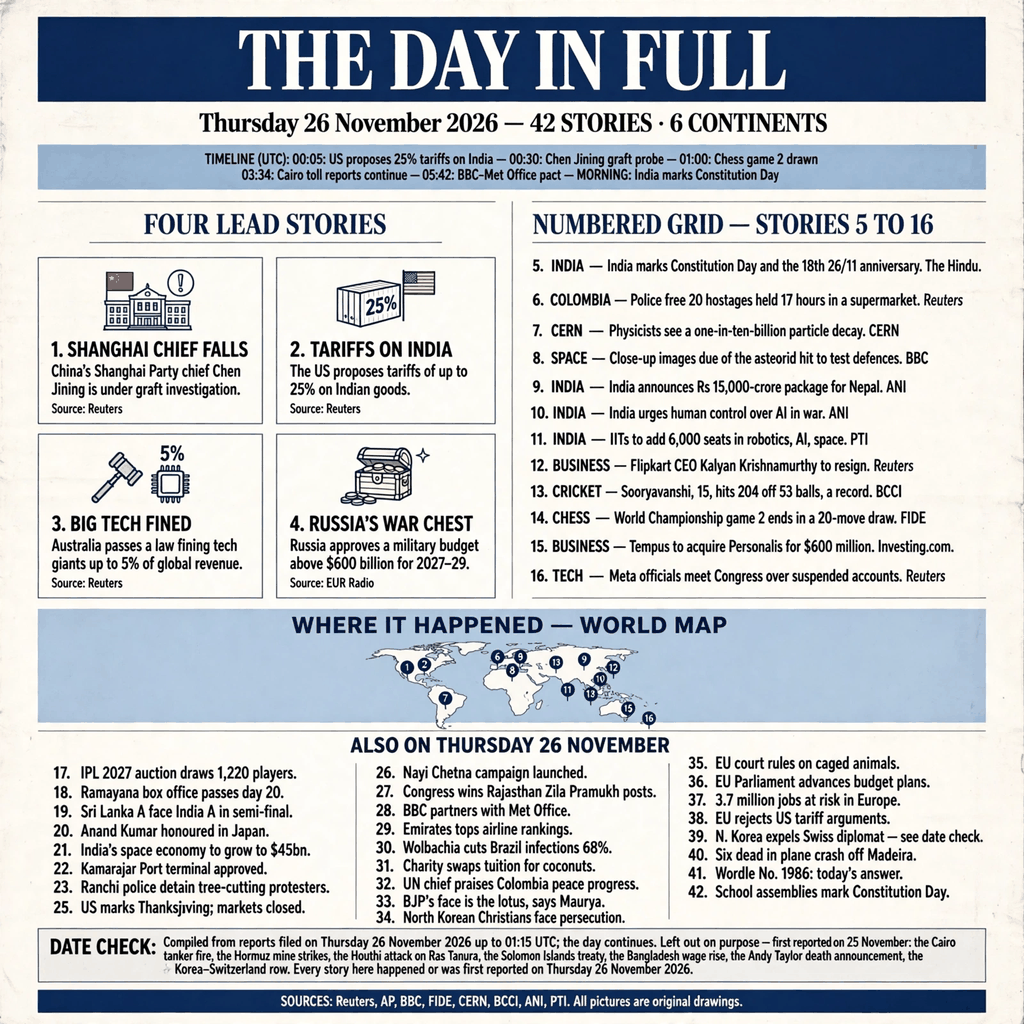
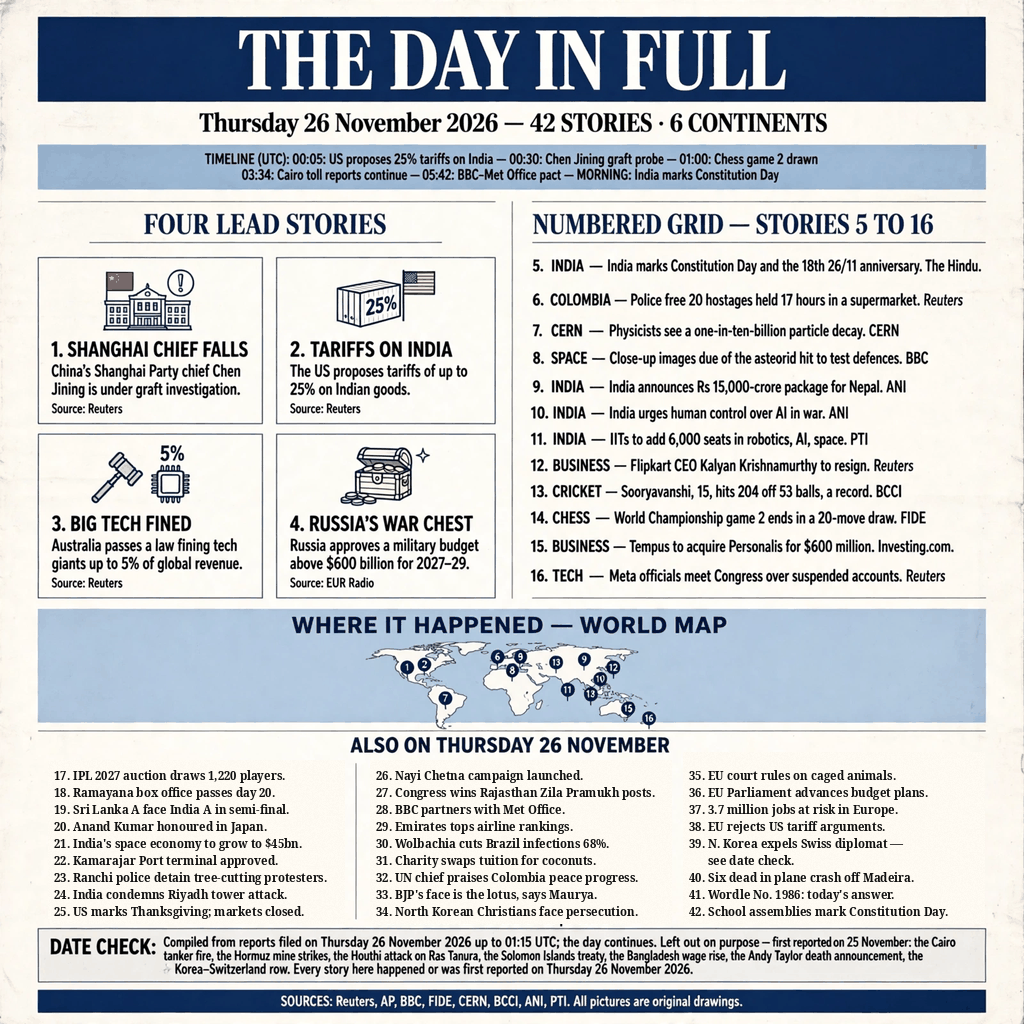
revise: restore missing ALSO list item 24 (India condemns Riyadh tower attack)
- redraw the three ALSO columns uniformly (Noto Serif Condensed
  Bold, 13px/17px) so all 26 items 17-42 fit; item 39 wraps over
  two lines with indented continuation
- add stories.md: full 42-story source list as source of truth
- nothing outside the ALSO columns touched (verified: zero
  changed pixels outside y 755-923)

Changed region(s): [[0.3438, 0.7188, 0.9688, 0.9062], [0.0312, 0.75, 0.3125, 0.9062]]

diff --git a/stories.md b/stories.md
@@ -1,0 +1,116 @@
+# Thursday 26 November 2026 — 42 stories for news-image-20261126
+
+Researched the morning of Thursday 26 November 2026 (WIB, = 01:15 UTC).
+Rule followed: every story happened, or was first reported, on Thursday
+26 November 2026 in some time zone. The day was only ~1 hour old in UTC
+when researched, so the poster states it was compiled from reports filed
+up to 01:15 UTC and the day continues. The DATE CHECK on the poster says
+what was left out and why.
+
+## Lead stories (1–4, with original drawings)
+
+1. **SHANGHAI CHIEF FALLS — Chen Jining under graft investigation.**
+   China's Shanghai Party chief Chen Jining is under investigation for
+   suspected serious violations of discipline and law; once seen as a
+   possible future leader, last public appearance 19 November.
+   Source: Reuters.
+2. **TARIFFS ON INDIA — US proposes tariffs of up to 25% on Indian
+   goods**, falling to 17% if a deal is reached; India would face the
+   second-highest rate after Vietnam. Source: Reuters.
+3. **BIG TECH FINED — Australia passes online-safety fines law.**
+   Parliament passed a law allowing fines of up to 5% of global
+   revenue for tech giants that fail to prevent foreseeable online
+   safety harms. Source: Reuters.
+4. **RUSSIA'S WAR CHEST — Military budget above $600 billion for
+   2027–29 approved.** Source: EUR Radio.
+
+## Numbered grid (5–16)
+
+5. **ASIA · INDIA — Constitution Day and the 18th anniversary of the
+   26/11 Mumbai attacks.** Source: The Hindu.
+6. **AMERICAS · COLOMBIA — Police free 20 hostages held 17 hours in a
+   supermarket.** Source: Reuters.
+7. **SCIENCE · CERN — One-in-ten-billion particle decay observed after
+   a 40-year search.** Source: CERN.
+8. **SCIENCE · SPACE — Close-up images due of the asteroid deliberately
+   hit to test Earth's defences (Hera).** Source: BBC.
+9. **ASIA · INDIA — Rs 15,000-crore development package for Nepal.**
+   Source: ANI.
+10. **ASIA · INDIA — Human judgement must stay central as AI enters
+    military operations.** Source: ANI.
+11. **ASIA · INDIA — IITs to add 6,000 seats in robotics, AI and space
+    technology from 2027.** Source: PTI.
+12. **ASIA · BUSINESS — Flipkart CEO Kalyan Krishnamurthy to resign.**
+    Source: Reuters.
+13. **SPORT · CRICKET — Vaibhav Sooryavanshi, 15, hits 204 off 53
+    balls, the fastest List A double century.** Source: BCCI.
+14. **SPORT · CHESS — World Championship game 2 ends in a 20-move
+    draw; Gukesh faces Sindarov in game 3 today.** Source: FIDE.
+15. **BUSINESS · TECH — Tempus to acquire Personalis in a $600 million
+    cash merger.** Source: Investing.com.
+16. **AMERICAS · TECH — Meta officials meet Congress over suspended
+    accounts.** Source: Reuters.
+
+## Also on Thursday 26 November (17–42)
+
+17. IPL 2027 auction draws 1,220 player registrations.
+18. Ramayana box office passes day 20.
+19. Sri Lanka A face India A in Asia Cup Rising Stars semi-final.
+20. Super 30 founder Anand Kumar honoured in Japan.
+21. India's space economy set to grow from $9bn to $45bn.
+22. Cabinet approves Rs 4,288-crore Kamarajar Port terminal.
+23. Ranchi police detain protesters opposing tree cutting.
+24. India condemns Riyadh tower attack after two Indians injured.
+25. US marks Thanksgiving Day; markets closed.
+26. Nayi Chetna campaign's fifth edition launched.
+27. Congress wins most Zila Pramukh posts in Rajasthan.
+28. BBC launches partnership with Met Office.
+29. Emirates tops global airline rankings.
+30. Wolbachia mosquitoes cut viral infections 68% in Brazil.
+31. Charity swaps tuition for coconuts on island schools.
+32. UN chief praises Colombia's decade of peace progress.
+33. BJP's face in polls is the lotus symbol, says Maurya.
+34. North Korean Christians face persecution — report.
+35. EU court rules on caged animals.
+36. EU Parliament advances budget proposals.
+37. 3.7 million jobs at risk in European industry.
+38. EU rejects US arguments for new tariffs.
+39. North Korea expels Swiss diplomat — reported 25 Nov, see date
+    check (kept in the list only as a pointer, not as a story).
+40. Two children among six dead in plane crash off Madeira — reports.
+41. Wordle No. 1986: today's answer and hints.
+42. School assemblies mark Constitution Day across India.
+
+## Date check (poster footer)
+
+Compiled from reports filed on Thursday 26 November 2026 up to 01:15
+UTC; the day continues and later news is not yet in. Left out on
+purpose — first reported on 25 November: the Cairo tanker fire
+(30 dead, late Wednesday night Cairo time, reported 25 Nov); the
+Hormuz mine strikes; the Houthi attack on Ras Tanura; the Solomon
+Islands treaty; the Bangladesh wage rise; the Andy Taylor death
+announcement (he died 23 Nov, announced 25 Nov); the North
+Korea–Switzerland row (expulsion ordered 25 Nov). The Shenzhou-24
+docking is a 25 Nov story, not 26 Nov. BepiColombo's Mercury
+arrival was 21 Nov.
+
+## Variants compared
+
+- classic (red masthead): middle grid column left blank; grid story
+  7 merged into story 6; ALSO items 21/22 and 28 garbled.
+  Rejected.
+- india (navy masthead): grid drops stories 7, 10, 13, 14 and
+  garbles 15; ALSO items 26/27 merged. Rejected.
+- tabloid (navy, short lines): full 5–16 grid, all four leads
+  clean, ALSO list complete except item 24 missing. CHOSEN.
+
+## Revision (26 November 2026)
+
+Poster `entry.png` revised in place (pixel-level patch, Noto Serif
+Condensed Bold, geometry measured from the PNG itself): the three
+ALSO columns were redrawn uniformly at a slightly smaller size so
+missing item 24 is restored — "24. India condemns Riyadh tower
+attack." (full story: "...after two Indians injured."). All 26
+items 17–42 are now present, in order; item 39 wraps over two
+lines. Nothing outside the ALSO columns was touched (verified:
+zero changed pixels outside y 755–923).

diff --git a/README.md b/README.md
@@ -48,10 +48,14 @@ Three layouts were built and compared pairwise against the judge
 criteria (names the day, breadth, reads, faithful, craft); the
 tabloid layout is the entry. The classic layout left its middle
 grid column blank and merged two grid stories; the India layout
-dropped four grid stories and garbled a fifth. The chosen layout
-keeps the full 5–16 grid and all four leads; its known flaw is
-one missing one-line item in the list (24, India condemning the
-Riyadh tower attack).
+dropped four grid stories and garbled a fifth. The chosen layout keeps the full 5–16 grid and all four leads.
+Revision 26 November 2026 restored the one missing one-line item
+in the list (24, India condemning the Riyadh tower attack): the
+three ALSO columns were redrawn uniformly at a slightly smaller
+size so all 26 items 17–42 now fit (pixel-level patch of
+`entry.png`; nothing outside the ALSO columns was touched). The
+complete 42-story list is kept in `stories.md` as the source of
+truth.
 
 `main.ts` uses only the Node standard library, makes no network
 calls, and writes the same bytes on every run.
@@ -59,7 +63,9 @@ calls, and writes the same bytes on every run.
 ## Contents
 
 - `main.ts` — entry point: copies the bundled PNG out.
-- `entry.png` — the finished 1024×1024 poster (527.408 bytes).
+- `entry.png` — the finished 1024×1024 poster (revised 26 Nov 2026).
+- `stories.md` — the full 42-story source list (leads, grid, ALSO
+  list, date check, variant comparison, revision note).
 - `LICENSE` — MIT.
 
 ---
